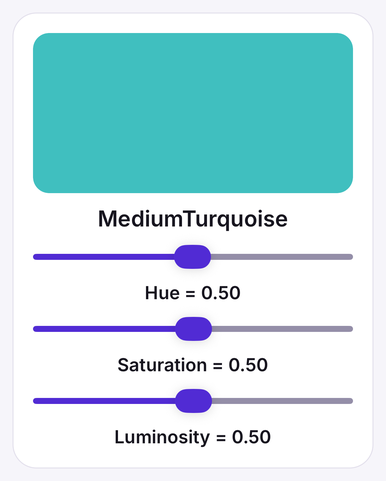
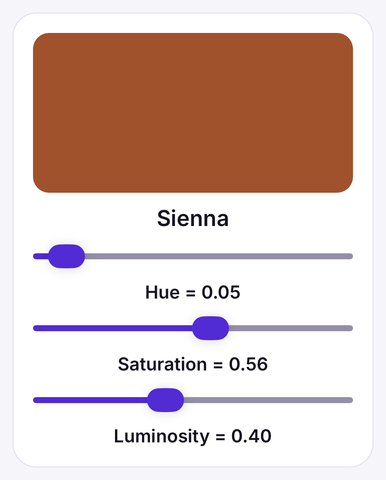
Data binding (.NET 11): apply review fixes
Add the "Select a time:" label so the path example reports 3 children
as the screenshot shows, and explain the count. Describe the .NET 11
layout type in the debugging walkthrough, use per-card colors in the
TemplatedParent example, show the as-opened Sienna state for the compiled
color selector, and refer to labels by what they display rather than by
position.

diff --git a/docs/fundamentals/data-binding/binding-path.md b/docs/fundamentals/data-binding/binding-path.md
@@ -12,7 +12,7 @@ ai-usage: ai-assisted
 ::: moniker range=">=net-maui-11.0"
 
 > [!NOTE]
-> The screenshots on this page come from the DataBindingDemos sample, which adds its own styling, such as cards, fonts, and colors. The examples on this page omit that styling to focus on the data binding features.
+> The screenshots on this page come from the DataBindingDemos sample, which adds its own styling, such as cards, fonts, colors, icons, and layout. The examples on this page omit that styling to focus on the data binding features.
 
 ::: moniker-end
 
@@ -114,6 +114,7 @@ The following XAML shows multiple examples of binding to sub-properties:
 
     <VerticalStackLayout x:Name="stackLayout"
                          Margin="10, 0">
+        <Label Text="Select a time:" />
         <TimePicker x:Name="timePicker" />
         <Label x:Name="label"
                Text="{Binding x:DataType='TimePicker',
@@ -161,13 +162,13 @@ In the second <xref:Microsoft.Maui.Controls.Label>, the binding source is the pa
 
 ::: moniker range=">=net-maui-11.0"
 
-In the second <xref:Microsoft.Maui.Controls.Label>, the binding source is the <xref:Microsoft.Maui.Controls.VerticalStackLayout> named `stackLayout`, which has a `Children` property of type `IList<IView>`, which has a `Count` property indicating the number of children. The `Children` collection doesn't raise property change notifications for `Count`, so the binding shows the number of children when it was first evaluated, while the page was still being built, rather than the final number.
+In the third <xref:Microsoft.Maui.Controls.Label>, the binding source is the <xref:Microsoft.Maui.Controls.VerticalStackLayout> named `stackLayout`, which has a `Children` property of type `IList<IView>`, which has a `Count` property indicating the number of children. The `Children` collection doesn't raise property change notifications for `Count`, so the binding shows the number of children when it was first evaluated, while the page was still being built. In this example, the <xref:Microsoft.Maui.Controls.Label> reports 3 children, the ones added before it, rather than the 7 children that the layout eventually contains.
 
 ::: moniker-end
 
 ## Paths with indexers
 
-In the example above, the binding in the third <xref:Microsoft.Maui.Controls.Label> references the [`CultureInfo`](xref:System.Globalization.CultureInfo) class in the `System.Globalization` namespace:
+In the example above, the binding in the <xref:Microsoft.Maui.Controls.Label> that displays the middle day of the week references the [`CultureInfo`](xref:System.Globalization.CultureInfo) class in the `System.Globalization` namespace:
 
 ```xaml
 <Label Text="{Binding x:DataType='globe:CultureInfo',
@@ -178,7 +179,7 @@ In the example above, the binding in the third <xref:Microsoft.Maui.Controls.Lab
 
 The source is set to the static `CultureInfo.CurrentCulture` property, which is an object of type `CultureInfo`. That class defines a property named `DateTimeFormat` of type [`DateTimeFormatInfo`](xref:System.Globalization.DateTimeFormatInfo) that contains a `DayNames` collection. The index selects the fourth item.
 
-The fourth <xref:Microsoft.Maui.Controls.Label> does something similar but for the culture associated with France. The `Source` property of the binding is set to `CultureInfo` object with a constructor:
+The next <xref:Microsoft.Maui.Controls.Label> does something similar but for the culture associated with France. The `Source` property of the binding is set to `CultureInfo` object with a constructor:
 
 ```xaml
 <Label>
@@ -241,6 +242,16 @@ That displays the type of the binding source, or `DataBindingDemos.PathVariation
                       StringFormat='{0}'}" />
 ```
 
+::: moniker range="<=net-maui-10.0"
+
 The type of the `Content` property is now revealed to be `Microsoft.Maui.Controls.StackLayout`. Add the `Children` property to the `Path` and the type is also `Microsoft.Maui.Controls.StackLayout`. Add an index to that and the type is `Microsoft.Maui.Controls.Label`. Continue in this way.
 
-As .NET MAUI processes the binding path, it installs a `PropertyChanged` handler on any object in the path that implements the `INotifyPropertyChanged` interface. For example, the final binding reacts to a change in the first <xref:Microsoft.Maui.Controls.Label> because the `Text` property changes. If a property in the binding path does not implement `INotifyPropertyChanged`, any changes to that property will be ignored. Some changes could entirely invalidate the binding path, so you should use this technique only when the string of properties and sub-properties never become invalid.
+::: moniker-end
+
+::: moniker range=">=net-maui-11.0"
+
+The type of the `Content` property is now revealed to be `Microsoft.Maui.Controls.VerticalStackLayout`. Add the `Children` property and an index to the `Path`, such as `Content.Children[0]`, and the type is `Microsoft.Maui.Controls.Label`. Continue in this way.
+
+::: moniker-end
+
+As .NET MAUI processes the binding path, it installs a `PropertyChanged` handler on any object in the path that implements the `INotifyPropertyChanged` interface. For example, the final binding reacts to a change in the <xref:Microsoft.Maui.Controls.Label> that displays the total seconds, because its `Text` property changes. If a property in the binding path does not implement `INotifyPropertyChanged`, any changes to that property will be ignored. Some changes could entirely invalidate the binding path, so you should use this technique only when the string of properties and sub-properties never become invalid.

diff --git a/docs/fundamentals/data-binding/relative-bindings.md b/docs/fundamentals/data-binding/relative-bindings.md
@@ -12,7 +12,7 @@ ai-usage: ai-assisted
 ::: moniker range=">=net-maui-11.0"
 
 > [!NOTE]
-> The screenshots on this page come from the DataBindingDemos sample, which adds its own styling, such as cards, fonts, and colors. The examples on this page omit that styling to focus on the data binding features.
+> The screenshots on this page come from the DataBindingDemos sample, which adds its own styling, such as cards, fonts, colors, icons, and layout. The examples on this page omit that styling to focus on the data binding features.
 
 ::: moniker-end
 
@@ -171,6 +171,8 @@ The `TemplatedParent` relative binding mode is used to bind from within a contro
 
 The following XAML shows an example of the `TemplatedParent` relative binding mode:
 
+::: moniker range="<=net-maui-10.0"
+
 ```xaml
 <ContentPage ...
              xmlns:controls="clr-namespace:DataBindingDemos.Controls">
@@ -215,6 +217,57 @@ The following XAML shows an example of the `TemplatedParent` relative binding mo
     </StackLayout>
 </ContentPage>
 ```
+
+::: moniker-end
+
+::: moniker range=">=net-maui-11.0"
+
+```xaml
+<ContentPage ...
+             xmlns:controls="clr-namespace:DataBindingDemos.Controls">
+    <ContentPage.Resources>
+        <ControlTemplate x:Key="CardViewControlTemplate"
+                         x:DataType="controls:CardView">
+            <Border BindingContext="{Binding Source={RelativeSource TemplatedParent}}"
+                    BackgroundColor="{Binding CardColor}"
+                    Stroke="{Binding BorderColor}"
+                   ...>
+                <Grid>
+                    ...
+                    <Label Text="{Binding CardTitle}"
+                           ... />
+                    <BoxView BackgroundColor="{Binding BorderColor}"
+                             ... />
+                    <Label Text="{Binding CardDescription}"
+                           ... />
+                </Grid>
+            </Border>
+        </ControlTemplate>
+    </ContentPage.Resources>
+    <StackLayout>        
+        <controls:CardView BorderColor="DarkGray"
+                           CardTitle="John Doe"
+                           CardDescription="Lorem ipsum dolor sit amet, consectetur adipiscing elit. Nulla elit dolor, convallis non interdum."
+                           IconBackgroundColor="#7C5CFF"
+                           IconImageSource="user.png"
+                           ControlTemplate="{StaticResource CardViewControlTemplate}" />
+        <controls:CardView BorderColor="DarkGray"
+                           CardTitle="Jane Doe"
+                           CardDescription="Phasellus eu convallis mi. In tempus augue eu dignissim fermentum. Morbi ut lacus vitae eros lacinia."
+                           IconBackgroundColor="#0D9488"
+                           IconImageSource="user.png"
+                           ControlTemplate="{StaticResource CardViewControlTemplate}" />
+        <controls:CardView BorderColor="DarkGray"
+                           CardTitle="Xamarin Monkey"
+                           CardDescription="Aliquam sagittis, odio lacinia fermentum dictum, mi erat scelerisque erat, quis aliquet arcu."
+                           IconBackgroundColor="#EA580C"
+                           IconImageSource="user.png"
+                           ControlTemplate="{StaticResource CardViewControlTemplate}" />
+    </StackLayout>
+</ContentPage>
+```
+
+::: moniker-end
 
 In this example, the <xref:Microsoft.Maui.Controls.Border>, which is the root element of the <xref:Microsoft.Maui.Controls.ControlTemplate>, has its `BindingContext` set to the runtime object instance to which the template is applied. Therefore, the <xref:Microsoft.Maui.Controls.Border> and its children resolve their binding expressions against the properties of each `CardView` object:
 

diff --git a/docs/fundamentals/data-binding/basic-bindings.md b/docs/fundamentals/data-binding/basic-bindings.md
@@ -12,7 +12,7 @@ ai-usage: ai-assisted
 ::: moniker range=">=net-maui-11.0"
 
 > [!NOTE]
-> The screenshots on this page come from the DataBindingDemos sample, which adds its own styling, such as cards, fonts, and colors. The examples on this page omit that styling to focus on the data binding features.
+> The screenshots on this page come from the DataBindingDemos sample, which adds its own styling, such as cards, fonts, colors, icons, and layout. The examples on this page omit that styling to focus on the data binding features.
 
 ::: moniker-end
 

diff --git a/docs/fundamentals/data-binding/binding-fallbacks.md b/docs/fundamentals/data-binding/binding-fallbacks.md
@@ -12,7 +12,7 @@ ai-usage: ai-assisted
 ::: moniker range=">=net-maui-11.0"
 
 > [!NOTE]
-> The screenshots on this page come from the DataBindingDemos sample, which adds its own styling, such as cards, fonts, and colors. The examples on this page omit that styling to focus on the data binding features.
+> The screenshots on this page come from the DataBindingDemos sample, which adds its own styling, such as cards, fonts, colors, icons, and layout. The examples on this page omit that styling to focus on the data binding features.
 
 ::: moniker-end
 

diff --git a/docs/fundamentals/data-binding/binding-mode.md b/docs/fundamentals/data-binding/binding-mode.md
@@ -12,7 +12,7 @@ ai-usage: ai-assisted
 ::: moniker range=">=net-maui-11.0"
 
 > [!NOTE]
-> The screenshots on this page come from the DataBindingDemos sample, which adds its own styling, such as cards, fonts, and colors. The examples on this page omit that styling to focus on the data binding features.
+> The screenshots on this page come from the DataBindingDemos sample, which adds its own styling, such as cards, fonts, colors, icons, and layout. The examples on this page omit that styling to focus on the data binding features.
 
 ::: moniker-end
 

diff --git a/docs/fundamentals/data-binding/commanding.md b/docs/fundamentals/data-binding/commanding.md
@@ -12,7 +12,7 @@ ai-usage: ai-assisted
 ::: moniker range=">=net-maui-11.0"
 
 > [!NOTE]
-> The screenshots on this page come from the DataBindingDemos sample, which adds its own styling, such as cards, fonts, and colors. The examples on this page omit that styling to focus on the data binding features.
+> The screenshots on this page come from the DataBindingDemos sample, which adds its own styling, such as cards, fonts, colors, icons, and layout. The examples on this page omit that styling to focus on the data binding features.
 
 ::: moniker-end
 

diff --git a/docs/fundamentals/data-binding/compiled-bindings.md b/docs/fundamentals/data-binding/compiled-bindings.md
@@ -12,7 +12,7 @@ ai-usage: ai-assisted
 ::: moniker range=">=net-maui-11.0"
 
 > [!NOTE]
-> The screenshots on this page come from the DataBindingDemos sample, which adds its own styling, such as cards, fonts, and colors. The examples on this page omit that styling to focus on the data binding features.
+> The screenshots on this page come from the DataBindingDemos sample, which adds its own styling, such as cards, fonts, colors, icons, and layout. The examples on this page omit that styling to focus on the data binding features.
 
 ::: moniker-end
 

diff --git a/docs/fundamentals/data-binding/converters.md b/docs/fundamentals/data-binding/converters.md
@@ -12,7 +12,7 @@ ai-usage: ai-assisted
 ::: moniker range=">=net-maui-11.0"
 
 > [!NOTE]
-> The screenshots on this page come from the DataBindingDemos sample, which adds its own styling, such as cards, fonts, and colors. The examples on this page omit that styling to focus on the data binding features.
+> The screenshots on this page come from the DataBindingDemos sample, which adds its own styling, such as cards, fonts, colors, icons, and layout. The examples on this page omit that styling to focus on the data binding features.
 
 ::: moniker-end
 

diff --git a/docs/fundamentals/data-binding/string-formatting.md b/docs/fundamentals/data-binding/string-formatting.md
@@ -12,7 +12,7 @@ ai-usage: ai-assisted
 ::: moniker range=">=net-maui-11.0"
 
 > [!NOTE]
-> The screenshots on this page come from the DataBindingDemos sample, which adds its own styling, such as cards, fonts, and colors. The examples on this page omit that styling to focus on the data binding features.
+> The screenshots on this page come from the DataBindingDemos sample, which adds its own styling, such as cards, fonts, colors, icons, and layout. The examples on this page omit that styling to focus on the data binding features.
 
 ::: moniker-end
 
